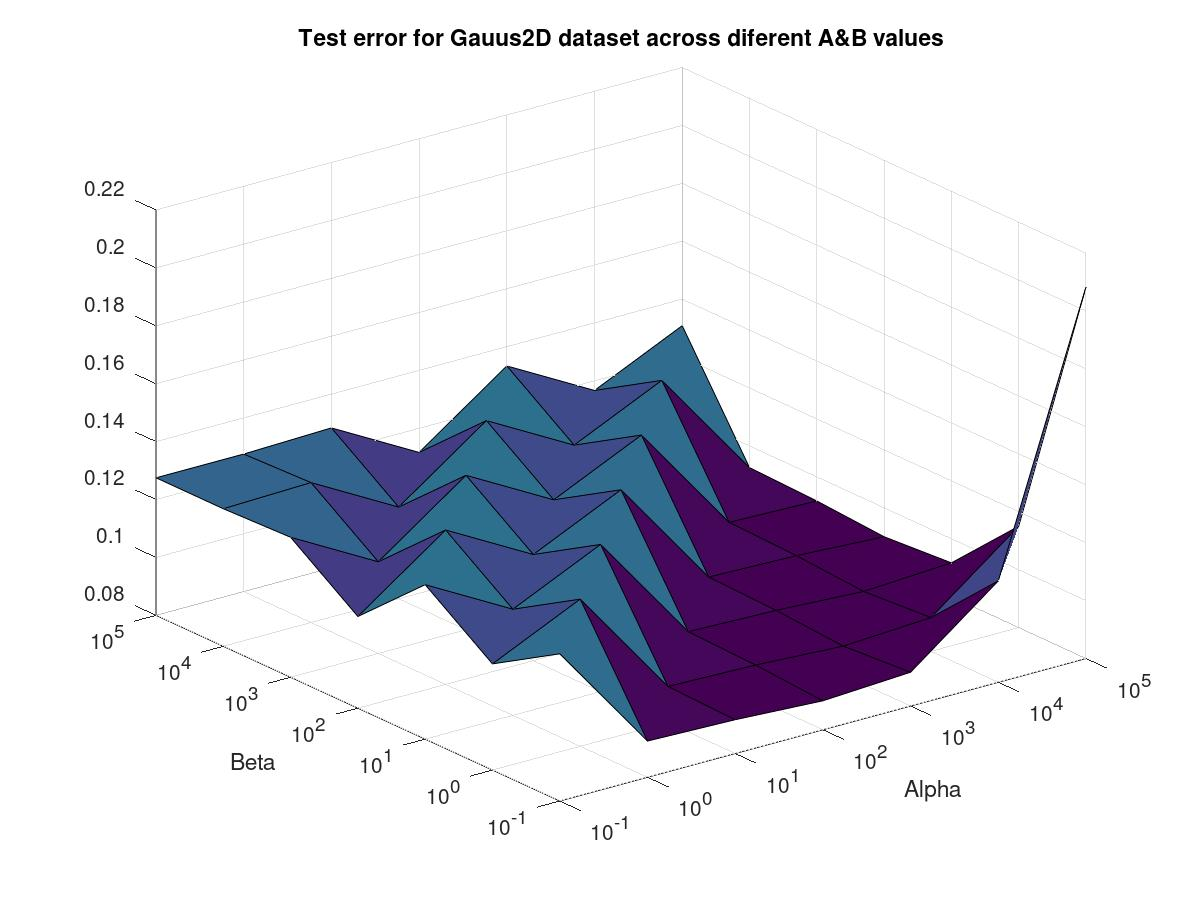
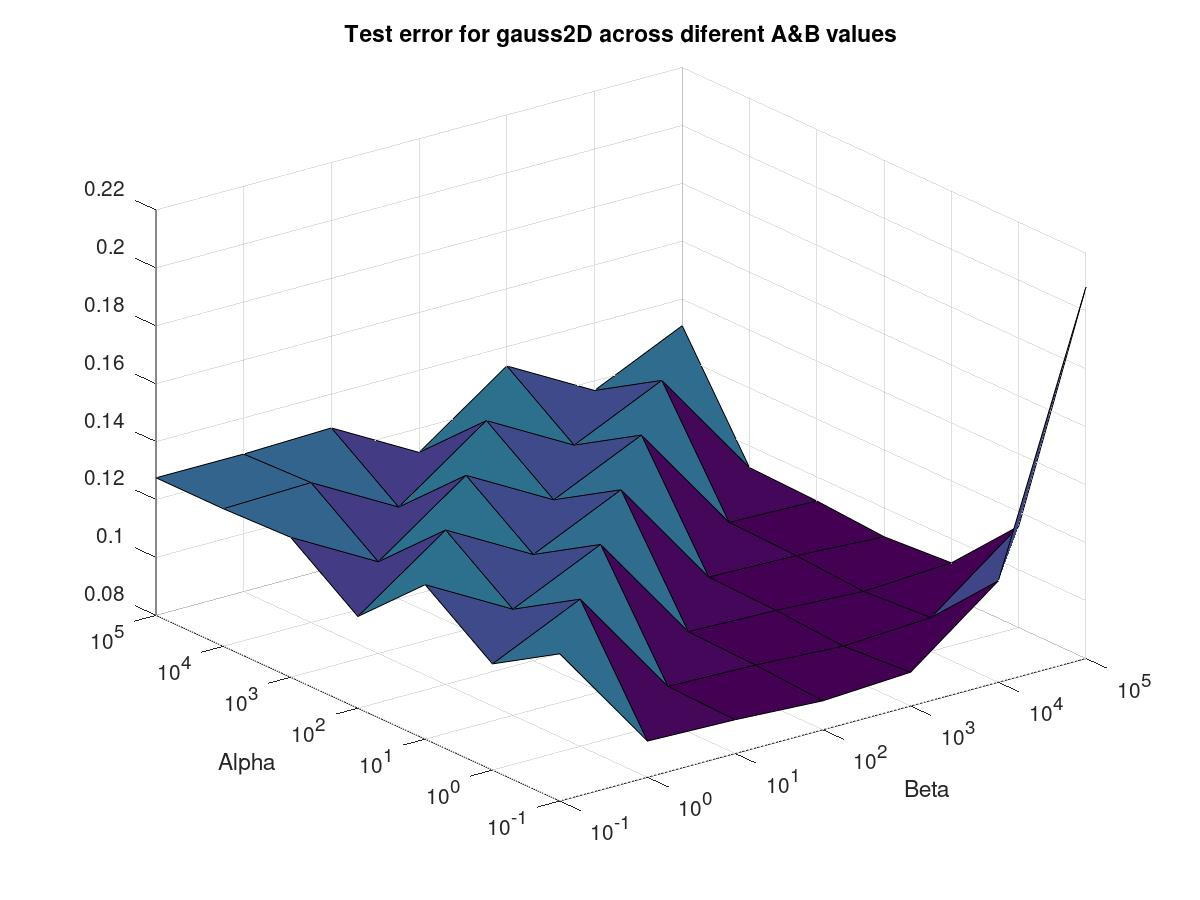
Updates on rfa and tia, more join methods used

Changed region(s): [[0.2467, 0.0311, 0.8017, 0.0622], [0.74, 0.8711, 0.8017, 0.9022], [0.185, 0.84, 0.2158, 0.8711]]

diff --git a/LC/lab1/lab1.py b/LC/lab1/lab1.py
@@ -69,22 +69,22 @@ def ej4(st, w):
 
 
 def main():
-    st = "El/DT perro/N come/V carne/N de/P la/DT carnicería/N y/C de/P la/DT nevera/N y/C canta/V el/DT la/N la/N la/N ./Fp"
+    st = "La/DT mamá/N de/P Pedro/N tiene/V tres/DNC tristes/Adj tigres/N que/C comen/V trigo/N en/P un/Pr triste/Adj trigal/N ./Fp ./Fp ./Fp Son/V tres/Pr que/C cantan/V en/P clave/N de/P la/N ./Fp La/DT mamá/N vino/V a/P beber/V vino/N ./Fp"
     print("Ej 1 \n------------------")
     r = ej1(st)
     rs = sorted(r.keys(), key=lambda x: x.lower())
     for key in rs:
         print(f"{key} {r[key]}")
-    print("Ej 2 \n------------------")
+    print("\nEj 2 \n------------------")
     r = ej2(st)
     rs = sorted(r.keys(), key=lambda x: x.lower())
     for key in rs:
         print(f"{key} {r[key]}")
-    print("Ej 3 \n------------------")
+    print("\nEj 3 \n------------------")
     r = ej3(st)
     for key in r:
         print(f"{key} {r[key]}")
-    print("Ej 4 \n------------------")
+    print("\nEj 4 \n------------------")
     ej4(st, "la")
 
 

diff --git a/RFA/lab2/test_errors.m b/RFA/lab2/test_errors.m
@@ -36,14 +36,14 @@ endfunction
 % endfor
 
 
-for dataset = 7:7 %length(datasets)
-    list_a=[10 10 10 10 10 10 10];
+for dataset = 1:1 %length(datasets)
+    list_a=[.1 1 10 100 1000 10000 100000];
     list_b=[.1 1 10 100 1000 10000 100000];
     V=zeros(7,7);
     V
     i_a = 1;
     i_b = 1;
-    for a=[10 10 10 10 10 10 10]
+    for a=[.1 1 10 100 1000 10000 100000]
         i_b = 1;
         for b=[.1 1 10 100 1000 10000 100000]
             E=test_dataset_parameters(datasets{dataset},a,b);
@@ -57,8 +57,8 @@ for dataset = 7:7 %length(datasets)
     SurfObj = surf(list_a,list_b,V) % use logarithmic axes
     Axes = get( SurfObj, 'parent' );
     set( Axes, 'xscale', 'log', 'yscale', 'log' )   % use logarithmic axes
-    xlabel("Alpha");
-    ylabel("Beta")
-    title ("Test error for videos dataset across diferent A&B values")
-    print -djpg errorplot/videos.jpg
+    xlabel("Beta");
+    ylabel("Alpha")
+    title ("Test error for expressions across diferent A&B values")
+    print -djpg errorplot/expressions.jpg
 endfor

diff --git a/TIA/lab_ga/ga_openai.py b/TIA/lab_ga/ga_openai.py
@@ -23,8 +23,8 @@ num_cores = multiprocessing.cpu_count()
 enviorment = "CartPole-v1"
 game_actions = 2  # 2 actions possible: left or right
 torch.set_grad_enabled(False)  # disable gradients as we will not use them
-num_agents = 500  # initialize N number of agents
-top_limit = 200
+num_agents = 100  # initialize N number of agents
+top_limit = 20
 generations = 1000000
 
 
@@ -226,7 +226,7 @@ def main():
         top_fitness = [fitness[best_parent] for best_parent in sorted_parent_indexes]
 
         print(
-            "Generation {0:.3g} | Mean fitness: {1:.3g} | Mean reward of top 5: {2:.4g}".format(
+            "Generation {0:.3g} | Mean fitness: {1:.3g} | Mean fitness of top 5: {2:.4g}".format(
                 generation,
                 np.mean(fitness),
                 np.mean(top_fitness[:5]),
